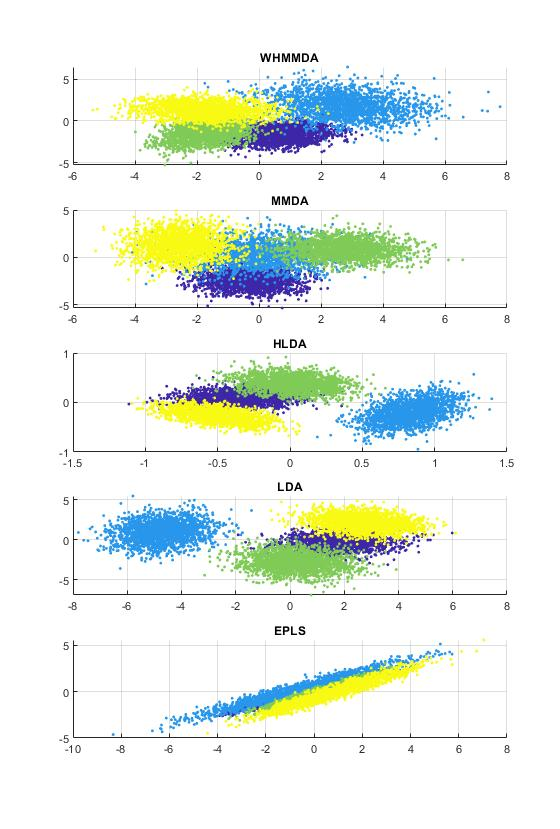
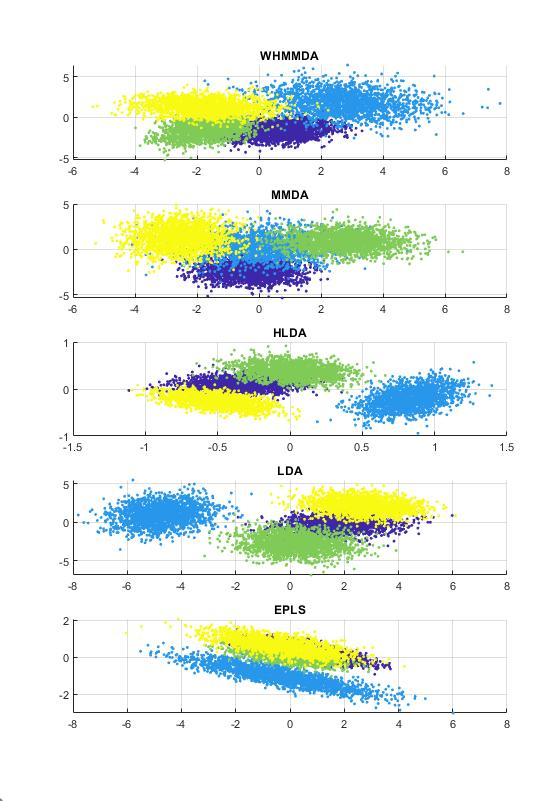
some modification on epls

diff --git a/techniques/epls_sldr.m b/techniques/epls_sldr.m
@@ -38,45 +38,56 @@ end
 mb = mean(X,'omitnan');
 X = X - mb;
 
-
 [n ,d]= size(X);
-y = zeros(n*num_classes,1);
-Xk = zeros(n*num_classes,d);
 
-strt = 0;
-for k1 = 1:num_classes
-    for k2=k1+1:num_classes
+for k1 = 1:min(num_classes,dim)
+    strt = 0;
+    y{k1} = zeros(n*num_classes,1);
+    Xk{k1} = zeros(n*num_classes,d);
+
+    k2_vals = 1:num_classes;
+    k2_vals(k1)=[];
+    for k2 = k2_vals
         ind_pos = find(labels==classes_labels(k1));
         ind_neg = find(labels==classes_labels(k2));
         this_dur = length(ind_pos) + length(ind_neg);
 
-        Xk(strt+1:strt+this_dur,:) = X([ind_pos;ind_neg],:);
-        y(strt+1:strt+this_dur) = [ones(length(ind_pos),1);-ones(length(ind_neg),1)];
+        Xk{k1}(strt+1:strt+this_dur,:) = X([ind_pos;ind_neg],:);
+        y{k1}(strt+1:strt+this_dur) = [ones(length(ind_pos),1);-ones(length(ind_neg),1)];
         strt = strt + this_dur;
     end
+    y{k1} = y{k1}(1:strt);
+    Xk{k1} = Xk{k1}(1:strt,:);
+    y{k1} = y{k1}- mean(y{k1});
 end
 
-y = y(1:strt);
-Xk = Xk(1:strt,:);
-
-% Xk = X;
-% y = labels- mean(labels);
 
 W = zeros(d,dim);
-for k= 1:dim
+k=0;
+while k <= dim
 
-    % SB = Xk'*(y*y'+lambda*eye(n*num_classes))*Xk; % this form is memory unefficeint
-    SB = (Xk'*y)*(y'*Xk) + lambda*(Xk')*Xk;
+    for k1 = 1:min(num_classes,dim)
+        k=k+1;
+        if k>dim
+            break
+        end
 
-    % Perform eigendecomposition of Sb
-    [M1, eigen_vals] = eig(SB);
-    [~, ind] = sort(diag(eigen_vals), 'descend');
-    uk = M1(:,ind(1));
-    zk = Xk*uk;
-    Xk = Xk - zk*(uk');
-    y = y- ((y'*zk)/(zk'*zk)) *zk;
-    W(:,k) = uk;
+        Xkk =Xk{k1};
+        yk = y{k1};
 
+        % SB = Xk'*(y*y'+lambda*eye(n*num_classes))*Xk; % this form is memory unefficeint
+        SB = (Xkk'*yk)*(yk'*Xkk) + lambda*(Xkk')*Xkk;
+
+        % Perform eigendecomposition of Sb
+        [M1, eigen_vals] = eig(SB);
+        [~, ind] = sort(diag(eigen_vals), 'descend');
+        uk = M1(:,ind(1));
+        zk = Xkk*uk;
+        Xk{k1} = Xkk - zk*(uk');
+        y{k1} = yk- ((yk'*zk)/(zk'*zk)) *zk;
+        W(:,k) = uk;
+
+    end
 end
 
 % Z has the dimentional reduced data sample X.

diff --git a/demo_run_methods.m b/demo_run_methods.m
@@ -61,7 +61,7 @@ catch
     warning('WHMMDA was replaced with HLDA to continue this example')
 end
 
-lambda = 0.1;
+lambda = 0.2;
 [para, Z_epls] = epls_sldr(train_data, train_label, dim, lambda);
 
 %% some EDA to analysis the results
